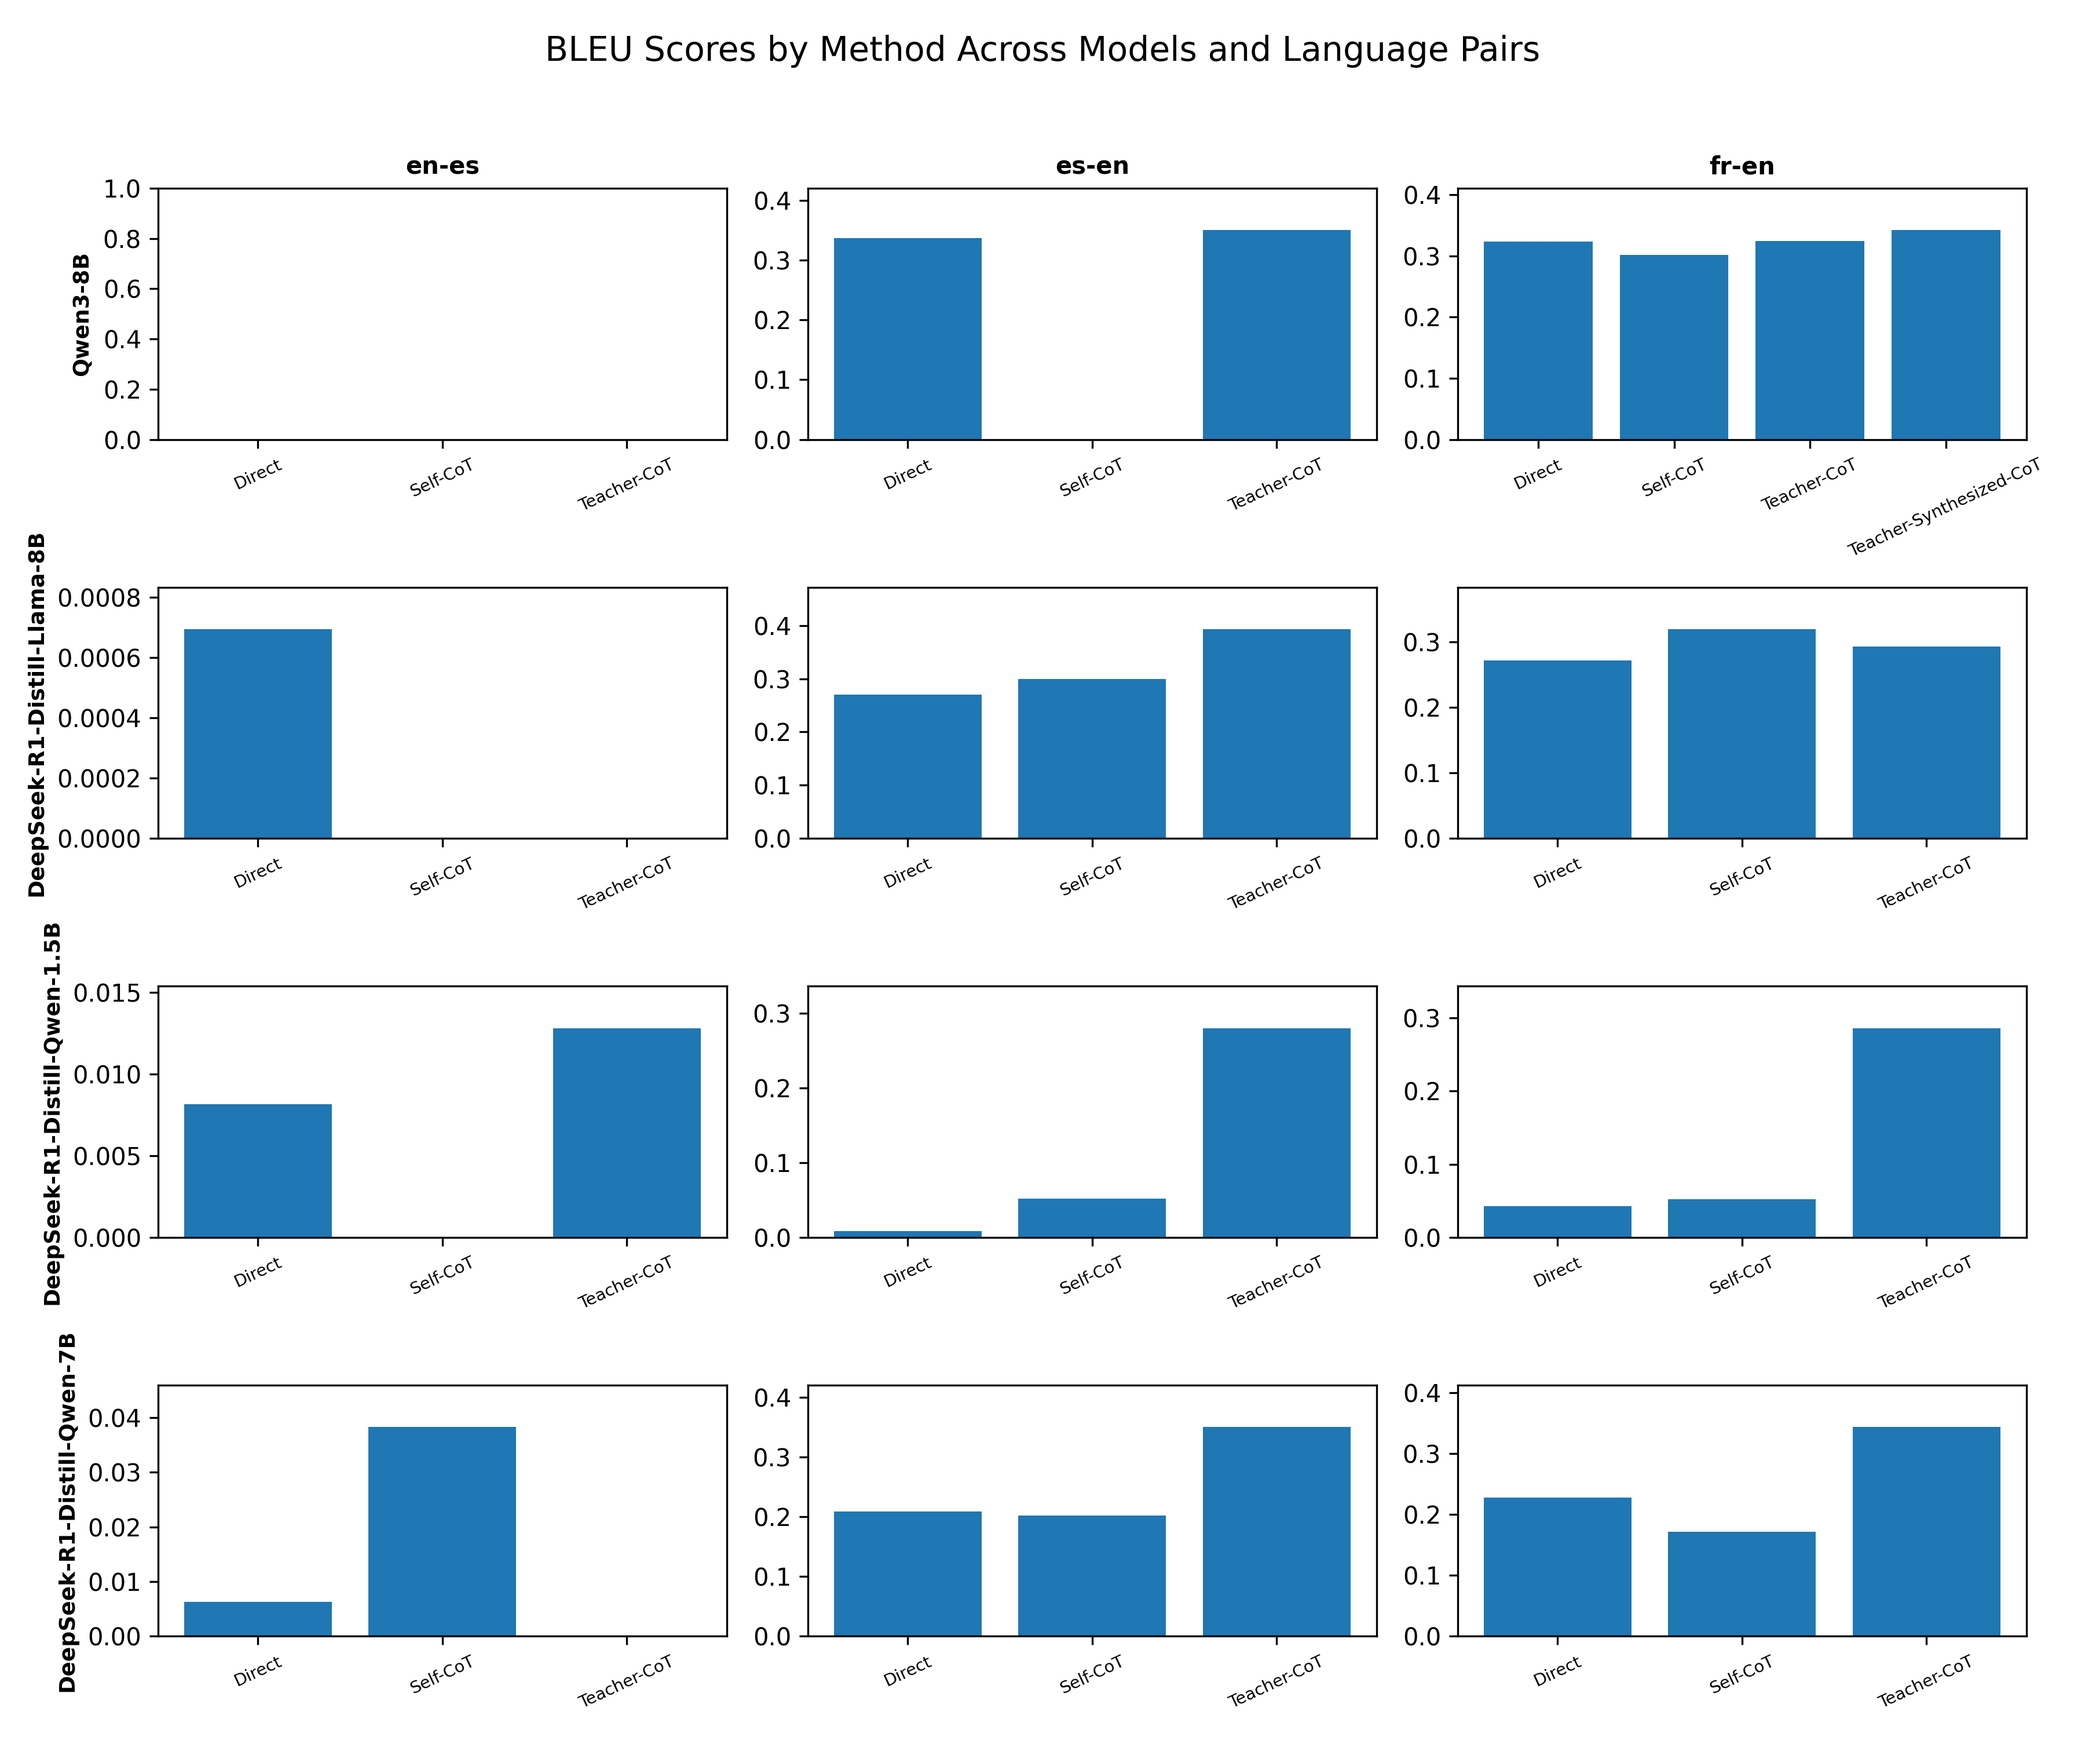
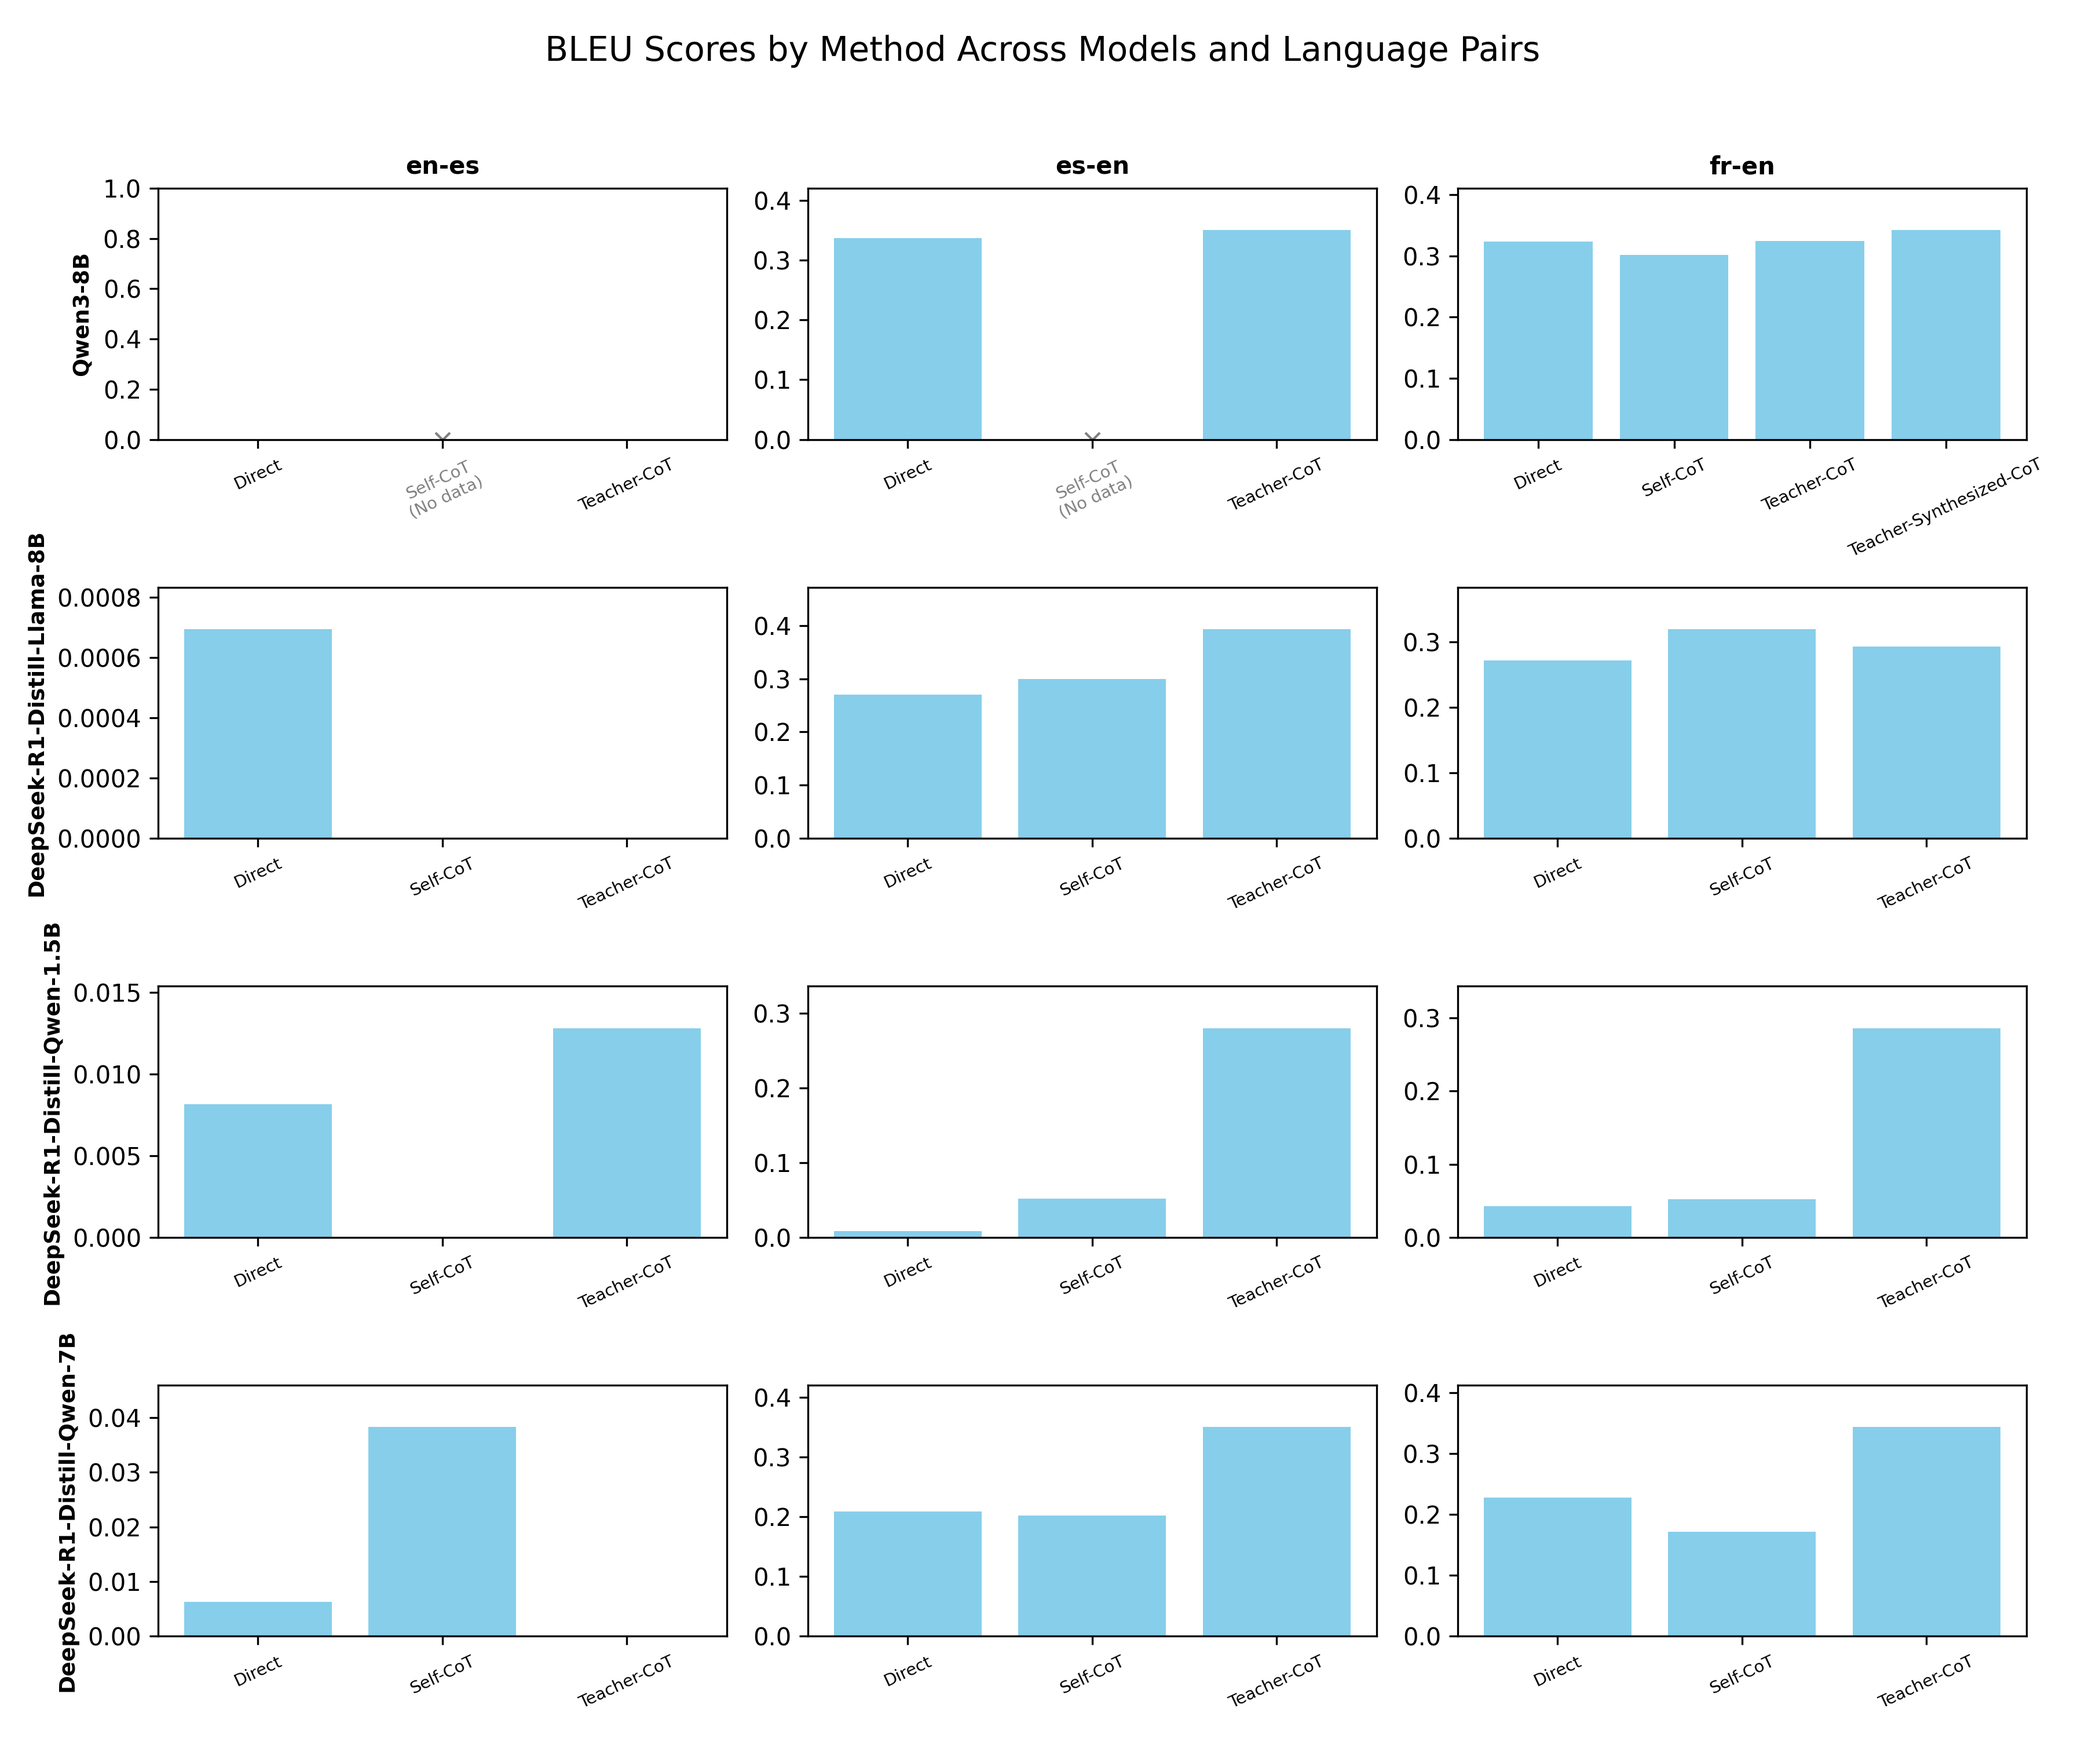
add readme + fix visulization for fields with no data

diff --git a/scripts/visualize_bleu.py b/scripts/visualize_bleu.py
@@ -72,10 +72,22 @@ def visualize(summary: dict, script_dir: Path):
             bleu_vals = [methods[m]["average_bleu"] for m in labels]
 
             x = np.arange(len(labels))
-            ax.bar(x, bleu_vals)
-
             ax.set_xticks(x)
-            ax.set_xticklabels(labels, rotation=25, fontsize=7)
+
+            # mark fields with no data
+            for i, m in enumerate(labels):
+                bleu_val = bleu_vals[i]
+                num_sentences = methods[m]["num_sentences"]
+
+                if num_sentences == 0:
+                    ax.plot(i, 0, marker='x', color='gray')
+                    labels[i] = f"{m}\n(No data)"  # update the label text
+                else:
+                    ax.bar(i, bleu_val, color="skyblue")
+            ax.set_xticklabels(labels, rotation=25, fontsize=7, color='black')
+            for i, m in enumerate(labels):
+                if "(No data)" in m:
+                    ax.get_xticklabels()[i].set_color("gray")
 
             if r == 0:
                 ax.set_title(lp, fontsize=10, weight="bold")

diff --git a/README.md b/README.md
@@ -1,1 +1,68 @@
-# reasoning-project
+# Reasoning project specfic exercise
+
+The code is modular and organized as follows:
+
+- `filter_translations.py` – Filters out empty translations and validates JSONL entries.
+- `bleu_eval.py` – Computes sentence-level BLEU and summarizes the best-performing methods.
+- `visualize.py` – Generates bar chart visualizations of BLEU scores across models and language pairs.
+- `utils.py` – Helper functions for parsing filenames and mapping translation methods to JSON fields.
+
+## Running the Code
+
+> All commands assume execution from the project root. 
+
+### 0. Install Dependencies 
+Dependencies: numpy, matplotlib, evaluate, json, pathlib
+```bash
+pip install -r requirements.txt
+```
+
+### 1. Filter Empty Translations
+
+Run the script to filter out entries with missing or empty translations. The script expects data to be in data to be in `data/trace_path/`.  Outputs go to `data/cleaned/`.
+
+```bash
+python -m scripts.filter_translations
+```
+
+### 2. Compute Bleu Scores
+Computes sentence-level BLEU for all cleaned JSONL files and summarize results by model, method, and language pair. Output is saved to `results/bleu_summary_grouped.json.`
+
+```bash
+python -m scripts.bleu_eval
+```
+
+### 3. Visualize Bleu Scores
+Generate bar charts of BLEU scores across models and language pairs. Output figure is saved to `results/bleu_visualization.png.`
+
+```bash
+python -m scripts.visualize
+```
+
+## Results Analysis
+
+> **Note on data:** Upon inspection, it appears that the source sentences are consistently in French, and the reference translations are in English. This suggests that only the French → English (fr-en) translations provide a reliable evaluation. Other language pairs (e.g., en-es, es-en) may not align properly with the references, which could explain why some BLEU scores are zero or very low. While we cannot be certain that the data is incorrect, this seems to be a reasonable interpretation for analyzing the results.
+
+### Key Observations
+
+1. **French → English (fr-en) is likely the most reliable evaluation:**
+   - Across all models, BLEU scores are generally highest for Teacher-CoT or Teacher-Synthesized-CoT.
+   - Direct and Self-CoT methods tend to achieve lower BLEU scores, though Self-CoT occasionally comes close depending on the model.
+
+2. **Model performance trends (fr-en):**
+   - **student_Qwen_Qwen3-8B:** Teacher-Synthesized-CoT achieved the highest BLEU (~0.342), slightly better than Teacher-CoT (~0.324) and Direct (~0.323).  
+   - **student_deepseek-ai_DeepSeek-R1-Distill-Llama-8B:** Teacher-CoT leads (~0.293), followed by Self-CoT (~0.320) and Direct (~0.272).  
+   - **student_deepseek-ai_DeepSeek-R1-Distill-Qwen-1.5B:** Teacher-CoT performs best (~0.286), while Direct and Self-CoT remain lower (~0.042–0.052).  
+   - **student_deepseek-ai_DeepSeek-R1-Distill-Qwen-7B:** Teacher-CoT (~0.344) outperforms Direct (~0.228) and Self-CoT (~0.172).
+
+3. **Other language pairs show near-zero BLEU:**
+   - BLEU scores for en-es and es-en are extremely low or zero, likely due to mismatched references. These results may not be meaningful for comparison.
+
+### Summary
+
+- For French → English translations, **teacher-guided methods generally achieve higher BLEU scores**, suggesting the benefit of incorporating teacher reasoning.  
+- Other language pairs should be interpreted with caution, as the results may not reflect true translation quality.  
+
+### Visualization
+
+- The BLEU bar chart (`results/bleu_visualization.png`) highlights that Teacher-CoT and Teacher-Synthesized-CoT consistently outperform Direct and Self-CoT for fr-en across all models.
